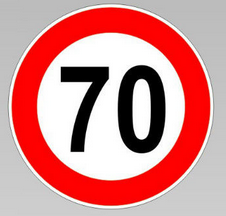
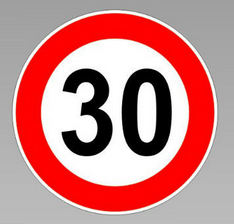
Added annotations

diff --git a/video_demo/display_signs.py b/video_demo/display_signs.py
@@ -9,9 +9,12 @@ def display_signs_func(pixy_image, classified_sign):
     pixy_image = Image.open(pixy_image)
     pixy_image.save("pixy_image.png")
 
-    fig = plt.figure()
+    # fig = plt.figure()
     image1 = plt.subplot(121)
     image2 = plt.subplot(122)
+
+    image1.set_title("Preprocessed image")
+    image2.set_title("Network classifies the sign as")
 
     img_path_to_source2 = "speedsign" + str(classified_sign) + ".png"
     img_source1 = mpimg.imread('pixy_image.png')
@@ -24,3 +27,5 @@ def display_signs_func(pixy_image, classified_sign):
     image2.axis("off")
     plt.show()
 
+
+display_signs_func("speedsign30.png", 30)

diff --git a/main.py b/main.py
@@ -30,7 +30,7 @@ def main_print(ser, classifier):
             try:
                 preprocessed_img = preprocess_image(detected_img, coordinates)
                 new_speed = classifier.classify_single_image(preprocessed_img.filename, "grayscale")
-                ds.display_signs_func(detected_img, new_speed)
+                ds.display_signs_func(preprocessed_img, new_speed)
                 print("detected sign is: ", new_speed)
                 update_speed(ser, new_speed)
             except WrongCenterException:
